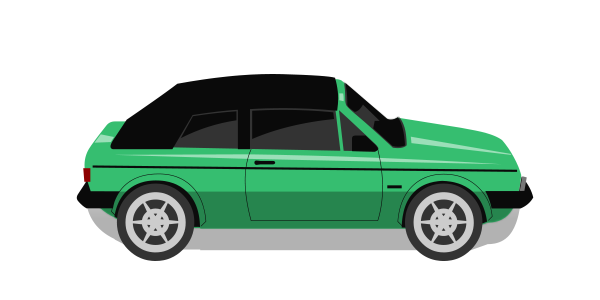
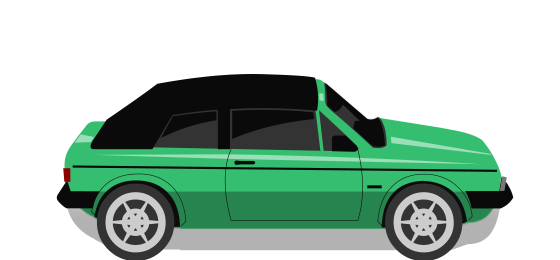
ground

diff --git a/game.js b/game.js
@@ -23,11 +23,11 @@ const carImages = [
 ];
 carImages[0].src = 'img/cars-motors/motorcycle.png';
 carImages[1].src = 'img/cars-motors/car1.png';
-carImages[2].src = 'img/cars-motors/car2.png';
+carImages[2].src = 'img/cars-motors/Volkswagen Golf Mk1 Cabriolet.png';
 
 // Level data (corrected values)
 let currentLevel = {
-    ground1Length: 25, // meters
+    ground1Length: 17, // meters
     ground1Height: 25, // meters
     gap: 10, // meters (changed from 25 to 10)
     ground2Length: 10, // meters
@@ -73,7 +73,7 @@ function drawLevel() {
     
     // Update car position to be on ground 1
     car.x = ground1X + 50;
-    car.y = ground1Y - car.height;
+    car.y = ground1Y - car.height + 60; // Lower position for 3D perspective
     
     // Draw Ground 1 (with image if loaded, otherwise solid color)
     if (ground1Img.complete && ground1Img.naturalWidth > 0) {
